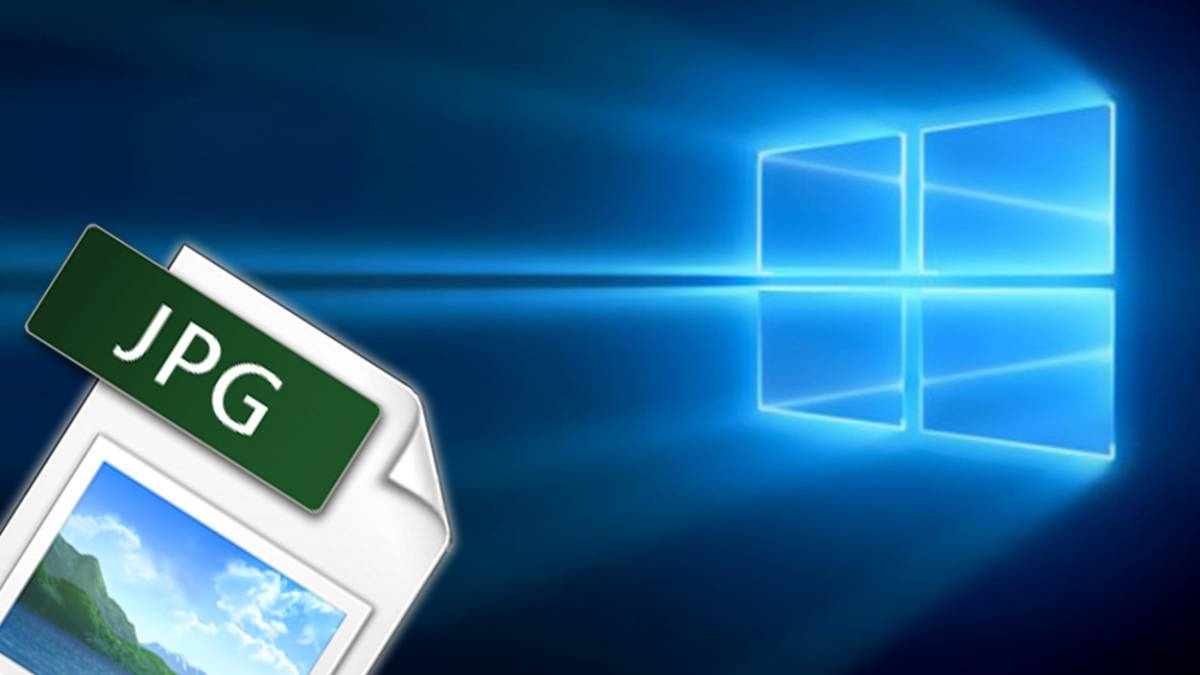
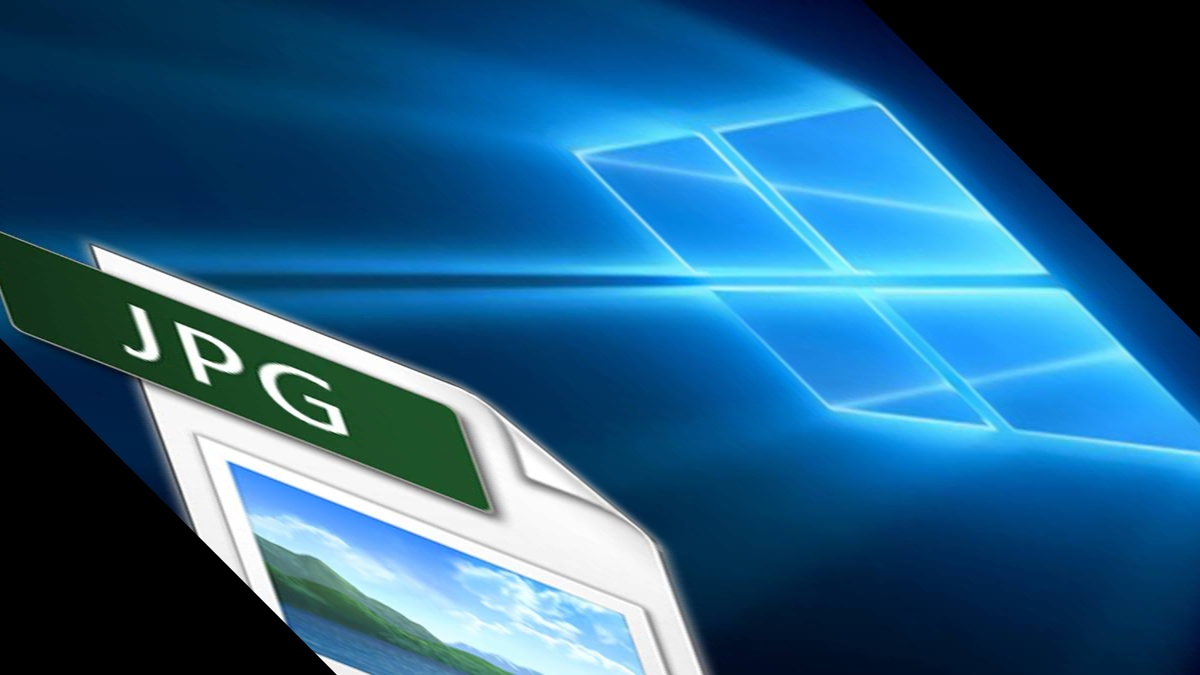
change

diff --git a/Practicas/Practica 3/Eduardo/main.cpp b/Practicas/Practica 3/Eduardo/main.cpp
@@ -63,7 +63,7 @@ void inclinar(char* file){
         return;
     }
 
-    double inc= tan(180.0*M_PI/180.0);
+    double inc= tan(45*M_PI/180.0);
     Mat c= (Mat_<double>(2, 3) << 1, inc, -inc*img.size().height/2.0, 0, 1, 0 );
     warpAffine(img, img, c, img.size());
     imwrite( "inclinar.jpg", img );

diff --git a/Practicas/Practica 3/Eduardo/README.md b/Practicas/Practica 3/Eduardo/README.md
@@ -56,7 +56,7 @@ Salida:
 ### 4. Inclinar
 Entrada:
   
-  ![](test1.jpg) 
+  ![](test2.jpg) 
     
 Salida:  
    
